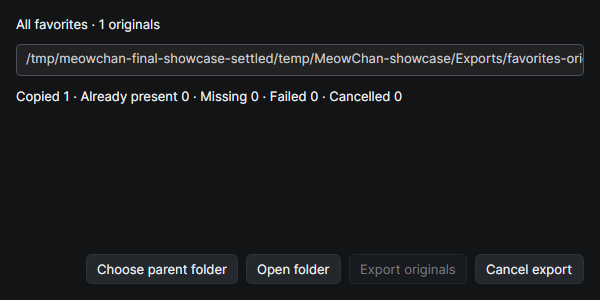
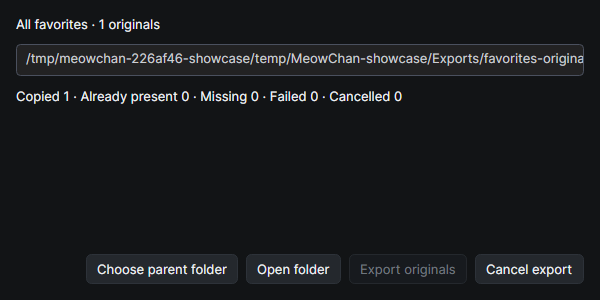
Refresh 0.9.0 screenshots and record frozen validation source

Changed region(s): [[0.21, 0.18, 0.99, 0.24]]

diff --git a/docs/screenshots/README.md b/docs/screenshots/README.md
@@ -1,8 +1,8 @@
 # MeowChan 0.9.0 screenshot provenance
 
-These 14 PNGs are unedited, byte-identical renders of the integrated MeowChan UI from source commit `115954305da680953e8e045c881618e1f6601056` (Git tree `c15412311d1696a65e0a60e27e0b46e5fdd93c75`). The capture used the frozen DesktopSmoke and application Debug DLLs built at that commit. All 14 images were visually reviewed from the current capture before promotion; their promoted hashes match the capture originals.
+These 14 PNGs are unedited, byte-identical renders of the integrated MeowChan UI from source commit `226af46bd834238162e4fd627f3801894c4da923` (Git tree `66263ab62dfa67831368ee9dffb3e537cc600dad`). The capture used the frozen DesktopSmoke and application Debug DLLs built at that commit. All 14 images were visually reviewed from the current capture before promotion; their promoted hashes match the capture originals.
 
-The run passed on Manjaro Linux in a private 3200×2000 Xvfb display with Openbox, private DBus/runtime directories and software rendering. Requested and measured RenderScaling were **1.0**. Main-window scenes use Simple/Dark/English; captures exclude native window decorations. About, favorites and export dialogs retain their actual client sizes. The fixed temporary paths visible in some dialogs belong solely to the isolated showcase workspace; there are no personal profiles or downloaded posts.
+The run passed on Manjaro Linux in a private 3200×2000 Xvfb display with Openbox, private DBus/runtime directories and software rendering. Requested and measured RenderScaling were **1.0**. Main-window scenes use Simple/Dark/English, showing the updated header, Feather-icon footer navigation and Downloads Columns control; captures exclude native window decorations. About, favorites and export dialogs retain their actual client sizes. The fixed temporary paths visible in some dialogs belong solely to the isolated showcase workspace; there are no personal profiles or downloaded posts.
 
 `ShowcaseData` seeds 56 synthetic archived threads and 173 captured posts with saved, original procedural Skia illustrations. Its HTTP handler rejects network requests. Downloads shows passive demonstration projections; the gallery, reader, archive, favorites and HTML/original exports use real local application services. The gallery image is marked as a favorite in the running UI, and the original-export result reports one copied file. The Reader shows archived posts and a disabled Live-follow control as appropriate for a thread without an active watch; the separate Replies image shows locally resolved replies. About shows the configured PayPal support link, Credits and the offline Feather license inventory.
 
@@ -10,51 +10,51 @@ This is **source-built UI evidence**. It does not establish native acceptance of
 
 ## Reproduce
 
-The source-built **Debug** DesktopSmoke DLL was prepared from commit `115954305da680953e8e045c881618e1f6601056` with a locked restore followed by:
+The source-built **Debug** DesktopSmoke DLL was prepared from commit `226af46bd834238162e4fd627f3801894c4da923` with a locked restore and build in the isolated artifacts directory:
 
 ```sh
 dotnet restore tests/MeowChan.DesktopSmoke/MeowChan.DesktopSmoke.csproj \
-  --artifacts-path /tmp/meowchan-final-showcase-settled/build -r linux-x64 --locked-mode
+  --artifacts-path artifacts/r09-profile-smoke -r linux-x64 --locked-mode
 dotnet build tests/MeowChan.DesktopSmoke/MeowChan.DesktopSmoke.csproj \
-  --artifacts-path /tmp/meowchan-final-showcase-settled/build -r linux-x64 --no-restore -v minimal
+  --artifacts-path artifacts/r09-profile-smoke -r linux-x64 --no-restore -v minimal
 ```
 
 The frozen DLL was then captured in a fresh isolated output and temporary directory. The exact capture invocation was:
 
 ```sh
-mkdir -p /tmp/meowchan-final-showcase-settled/temp
-TMPDIR=/tmp/meowchan-final-showcase-settled/temp \
+mkdir -p /tmp/meowchan-226af46-showcase/temp
+TMPDIR=/tmp/meowchan-226af46-showcase/temp \
 PATH=/tmp/meowchan-ui-tools/usr/bin:$PATH \
 LD_LIBRARY_PATH=/tmp/meowchan-ui-tools/usr/lib \
 XDG_DATA_DIRS=/tmp/meowchan-ui-tools/usr/share \
 python3 scripts/run-desktop-smoke.py \
-  --assembly /tmp/meowchan-final-showcase-settled/build/bin/MeowChan.DesktopSmoke/debug_linux-x64/MeowChan.DesktopSmoke.dll \
-  --mode visual --scale 1 --output /tmp/meowchan-final-showcase-settled/capture --timeout 180
+  --assembly /home/tomka/Desktop/oChan/artifacts/r09-profile-smoke/bin/MeowChan.DesktopSmoke/debug_linux-x64/MeowChan.DesktopSmoke.dll \
+  --mode visual --scale 1 --output /tmp/meowchan-226af46-showcase/capture --timeout 180
 ```
 
[2 lines of base64/hex data omitted]
 
 | Binary | SHA-256 |
 | --- | --- |
[6 lines of base64/hex data omitted]
 
 ## Original files
 
 | Image | Pixels | Capture time (UTC) | SHA-256 |
 | --- | --- | --- | --- |
[28 lines of base64/hex data omitted]

diff --git a/README.md b/README.md
@@ -57,7 +57,7 @@ Read captured posts at full window size, with large local media and navigation b
 
 Find retained threads and media offline. Open images from all matching threads across every results page.
 
-These scenes show the integrated interface at source commit `11595430`, using original offline demo artwork and synthetic posts in an isolated Linux Xvfb/Openbox capture at 100% scaling. Downloads uses passive example states; archive, gallery, reader, favorites and exports use persisted local data. See more of the actual UI in [expanded reader replies](docs/screenshots/v0.9.0-reader-replies.png), [favorites](docs/screenshots/v0.9.0-favorites.png), [original-file export](docs/screenshots/v0.9.0-favorites-original-result.png), [Settings](docs/screenshots/v0.9.0-settings.png), [Rules](docs/screenshots/v0.9.0-rules.png) and [About with the cat and support link](docs/screenshots/v0.9.0-about.png). The [image provenance and complete 14-image set](docs/screenshots/README.md) describe the capture and its limits; these source-built images do not establish native package acceptance or live source availability.
+These scenes show the integrated interface at source commit `226af46b`, using original offline demo artwork and synthetic posts in an isolated Linux Xvfb/Openbox capture at 100% scaling. Downloads uses passive example states; archive, gallery, reader, favorites and exports use persisted local data. See more of the actual UI in [expanded reader replies](docs/screenshots/v0.9.0-reader-replies.png), [favorites](docs/screenshots/v0.9.0-favorites.png), [original-file export](docs/screenshots/v0.9.0-favorites-original-result.png), [Settings](docs/screenshots/v0.9.0-settings.png), [Rules](docs/screenshots/v0.9.0-rules.png) and [About with the cat and support link](docs/screenshots/v0.9.0-about.png). The [image provenance and complete 14-image set](docs/screenshots/README.md) describe the capture and its limits; these source-built images do not establish native package acceptance or live source availability.
 
 ## What's new in 0.9.0
 

diff --git a/docs/platform-support.md b/docs/platform-support.md
@@ -2,15 +2,24 @@
 
 This record separates upstream platform support, candidate MeowChan packages, and checks actually performed. A successful cross-publish does not establish that an application starts on the target operating system or CPU.
 
-## 0.9.0 candidate: final layout and DMG changes awaiting native validation
+## 0.9.0 candidate: native validation at `226af46`
+
+The frozen product source is `226af46bd834238162e4fd627f3801894c4da923`.
+[Full validation](https://github.com/tfgrass/MeowChan/actions/runs/39662560402)
+and [native package/media validation](https://github.com/tfgrass/MeowChan/actions/runs/39662560567)
+are in progress. Local validation passed 259 desktop tests with one expected
+opt-in native-media skip, 154 script tests with one native Mac skip, and the
+isolated normal graphical workflow including per-mode column choices/reset,
+header-logo About and labeled navigation. This does not yet attest to the final
+native delivery matrix or user acceptance.
 
 The [native package/media run at source `1159543`](https://github.com/tfgrass/MeowChan/actions/runs/39658276164)
 passed Windows x64, macOS Intel/Apple Silicon, all three Linux formats on both
 CPUs, and macOS source pairing. That checkpoint predates the final per-mode
 layout settings, navigation icons and macOS DMG delivery. It is not the final
-user-test candidate. The separate validation run exposed viewport/transition
-fixture timing and a fake Linux tray-host protocol error; their harness fixes
-also need a fresh native run.
+user-test candidate. The separate earlier validation run exposed viewport/transition
+fixture timing and a fake Linux tray-host protocol error; the frozen source
+includes those harness fixes.
 
 The [screenshot provenance](screenshots/README.md) identifies the captured UI
 checkpoint. A fresh local NuGet consumer and bounded 4chan/8kun

diff --git a/docs/releases/v0.9.0.md b/docs/releases/v0.9.0.md
@@ -117,7 +117,7 @@ The 0.9.0 candidate includes a bounded LibVLC player. Linux uses private bundled
 or a supported system runtime according to the chosen package; Windows/macOS use
 official VideoLAN native assets. All desktop variants include .NET. See the platform record for native video/audio coverage.
 The 14 visually reviewed [interface screenshots](../screenshots/README.md)
-were captured from source-built binaries at commit `11595430` and document
+were captured from source-built binaries at commit `226af46b` and document
 Downloads, gallery, reader and replies, archive, HTML and original-file export,
 favorites, Settings, Rules and About. They are separate from native package acceptance.
 
